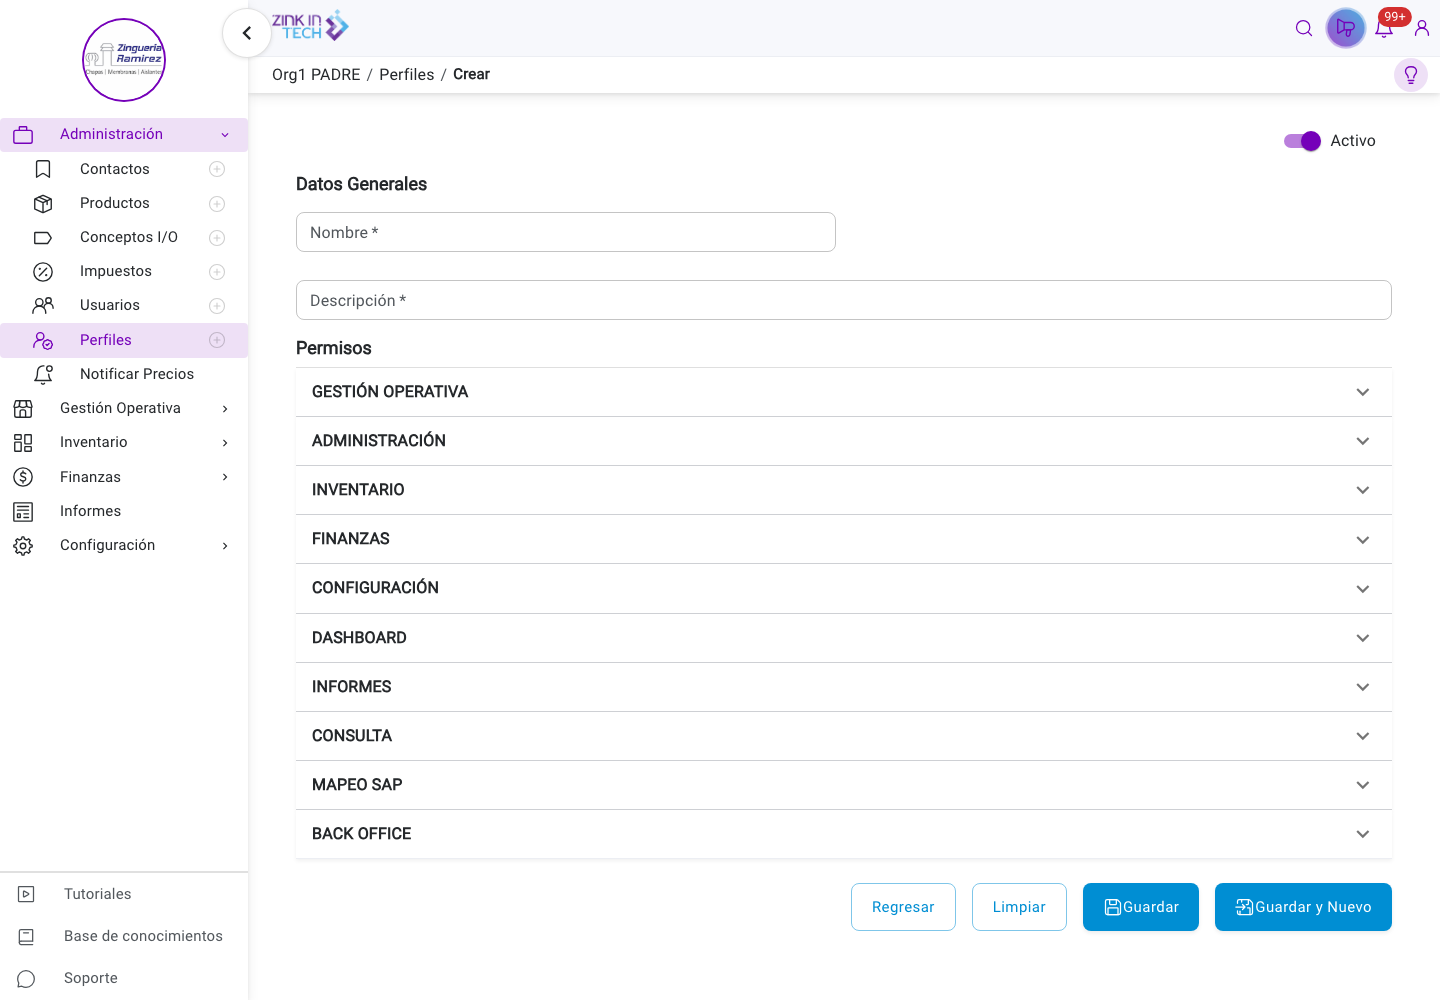
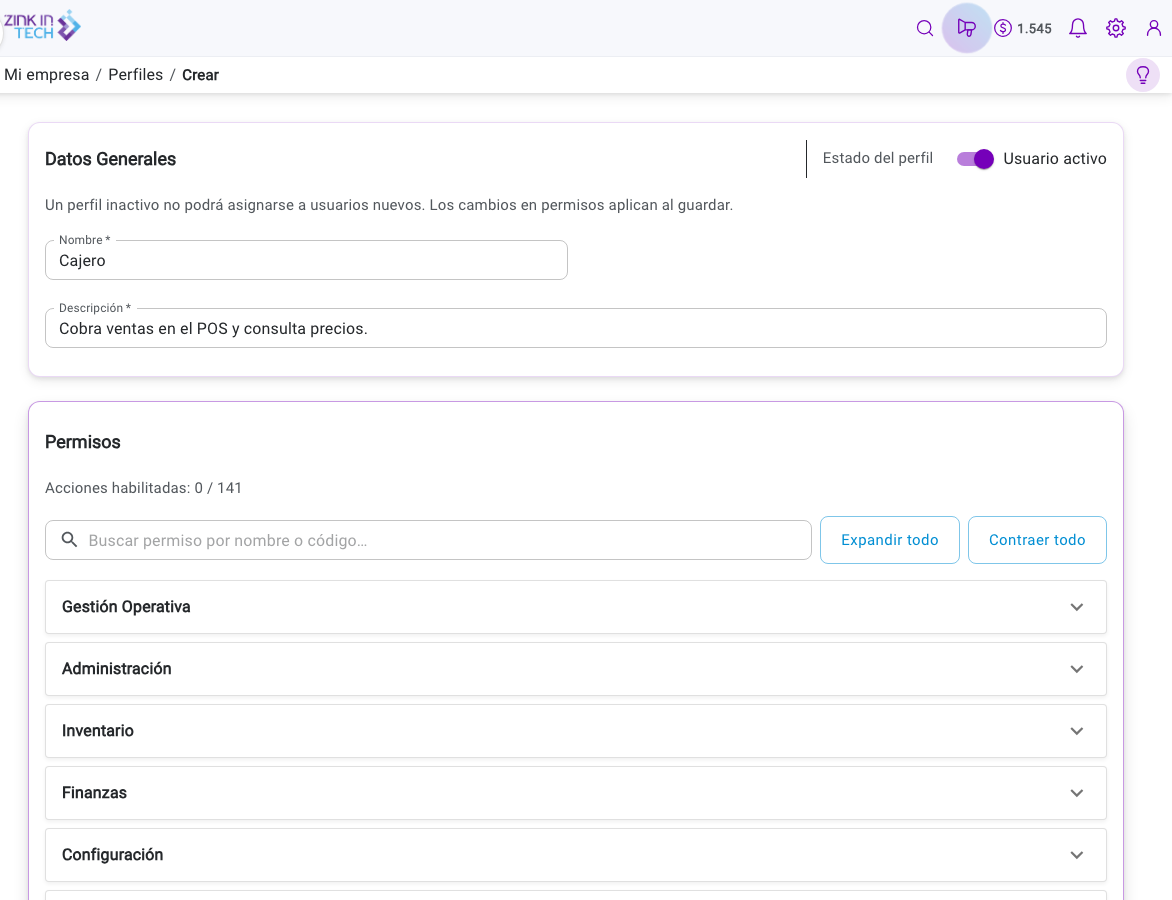
docs: últimos ajustes de Facturante, Importar pedido desde texto, home y captura de Perfiles
Saca Facturante como opción vigente en Ventas y la novedad del 21/9, unifica el nombre Importar pedido desde texto en Pedidos y la novedad del 16/9, cambia Troubleshooting por Problemas frecuentes en la home y reemplaza la captura de Perfiles por una con datos de ejemplo.

diff --git a/src/components/Novedades/items.ts b/src/components/Novedades/items.ts
@@ -47,8 +47,8 @@ const NOVEDADES_FUENTE: Array<Omit<NovedadIndexItem, 'href'>> = [
     id: '42',
     fechaISO: '2026-09-16',
     tipo: 'feature',
-    titulo: 'Pedidos desde texto e importación asistida de productos',
-    lead: 'Pedidos desde texto, importación asistida de productos, Formularios V2 definitivos y descuentos en el Dashboard.',
+    titulo: 'Importar pedido desde texto e importación asistida de productos',
+    lead: 'Importar pedido desde texto, importación asistida de productos, Formularios V2 definitivos y descuentos en el Dashboard.',
   },
   {
     id: '41',

diff --git a/src/components/HomepageFeatures/index.tsx b/src/components/HomepageFeatures/index.tsx
@@ -39,7 +39,7 @@ const FeatureList: FeatureItem[] = [
   {
     title: '🛠 Resolver un problema',
     description:
-      'Algo no funciona. Troubleshooting, errores frecuentes y soporte.',
+      'Algo no funciona. Problemas frecuentes, errores y soporte.',
     links: [
       {
         label: 'Problemas de integración',

diff --git a/docs/ventas/pedidos.md b/docs/ventas/pedidos.md
@@ -60,7 +60,7 @@ Usá pedidos cuando:
 
 ![Listado de Pedidos con número, contacto, importe, fechas, envío y estado de cada pedido](/img/ayuda/ventas/pedidos-01.png)
 
-1. Creá un pedido desde **Gestión operativa → Pedidos** (ver [Formulario de documentos](../guias/formulario-documento-v2.md)). Si el cliente te mandó el pedido por mensaje, podés [importarlo desde texto](#importar-pedido-desde-texto).
+1. Creá un pedido desde **Gestión operativa → Pedidos** (ver [Formulario de documentos](../guias/formulario-documento-v2.md)). Si el cliente te mandó el pedido por mensaje, podés usar [Importar pedido desde texto](#importar-pedido-desde-texto).
 2. Seleccioná el contacto (no puede ser Consumidor Final).
 3. Completá **Pedido**, **Entrega** y totales (descuento, recargo, envío) si aplica.
 4. Agregá ítems (**F4** listado; **/** y **\*** con accesos rápidos).
@@ -163,7 +163,7 @@ Usalos cuando:
 - **No se genera la venta**
   - El pedido debe estar en **Preparado**.
   - El contacto no puede ser Consumidor Final (regla de pedidos).
-- **Al importar desde texto, una línea queda en Resolver**
+- **Al importar un pedido desde texto, una línea queda en Resolver**
   - El sistema no encontró el producto. Buscalo a mano en esa línea o quitala y agregala después en el pedido.
 - **No veo Importar desde texto (Beta)**
   - Necesitás permiso para crear pedidos. Revisalo en [Perfiles](../administracion/perfiles.md).

diff --git a/docs/ventas/ventas.md b/docs/ventas/ventas.md
@@ -137,7 +137,7 @@ Cuando el cobro se registra correctamente, el sistema puede abrir el comprobante
 Desde la **consulta del comprobante** (abrí la venta por el número o el menú del listado) podés:
 
 - **Enviar por correo** el PDF al email del contacto (nativo y fiscal en el mismo mensaje, si hay documento fiscal). Si ya se envió, la acción pasa a **Enviar nuevamente**.
-- En vista **Fiscal** con facturación **ARCA**, elegir formato **Ticket** o **A4** (diseño propio de Zink ERP). Si tu organización todavía emite con la integración legada de Facturante, el PDF fiscal sigue siendo el habitual.
+- En vista **Fiscal** con facturación **ARCA**, elegir formato **Ticket** o **A4** (diseño propio de Zink ERP).
 
 Si el usuario confirma una venta con contacto y el proceso de pago es diferido, la deuda queda asociada a la cuenta corriente del contacto y puede cobrarse luego desde Finanzas, Cuenta corriente o Pagos.
 
